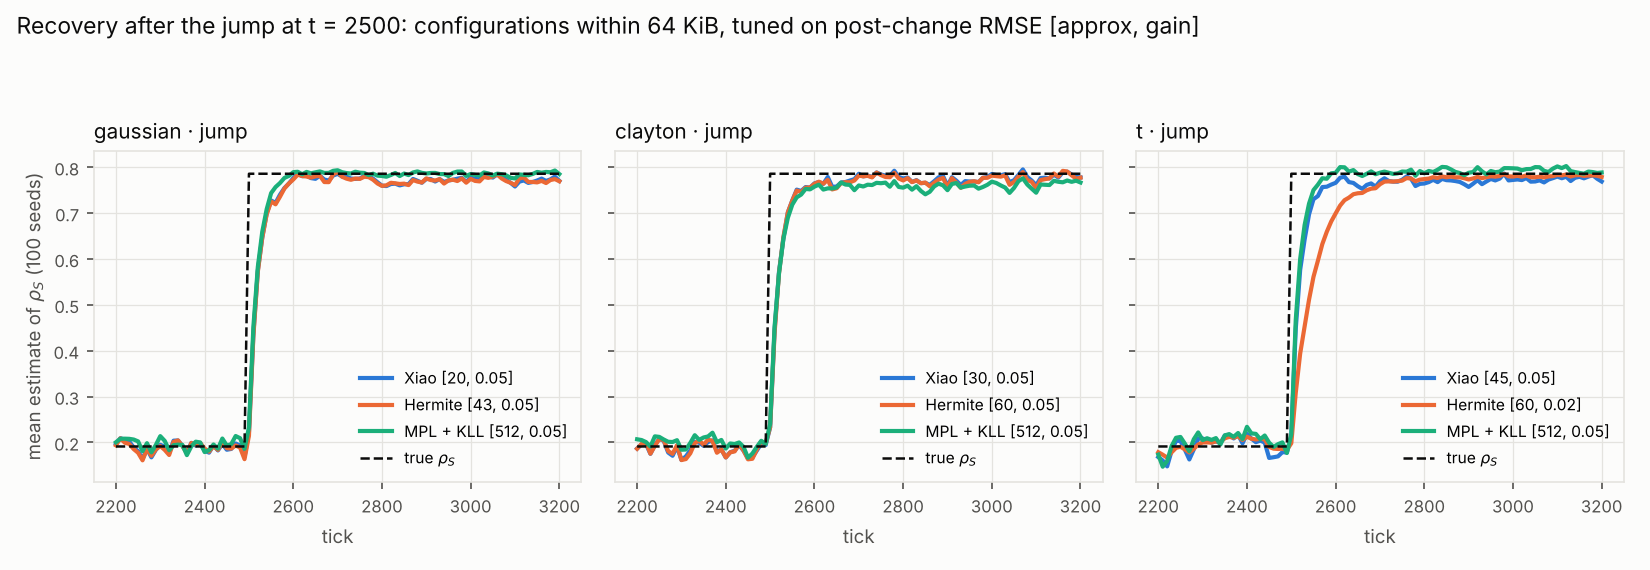
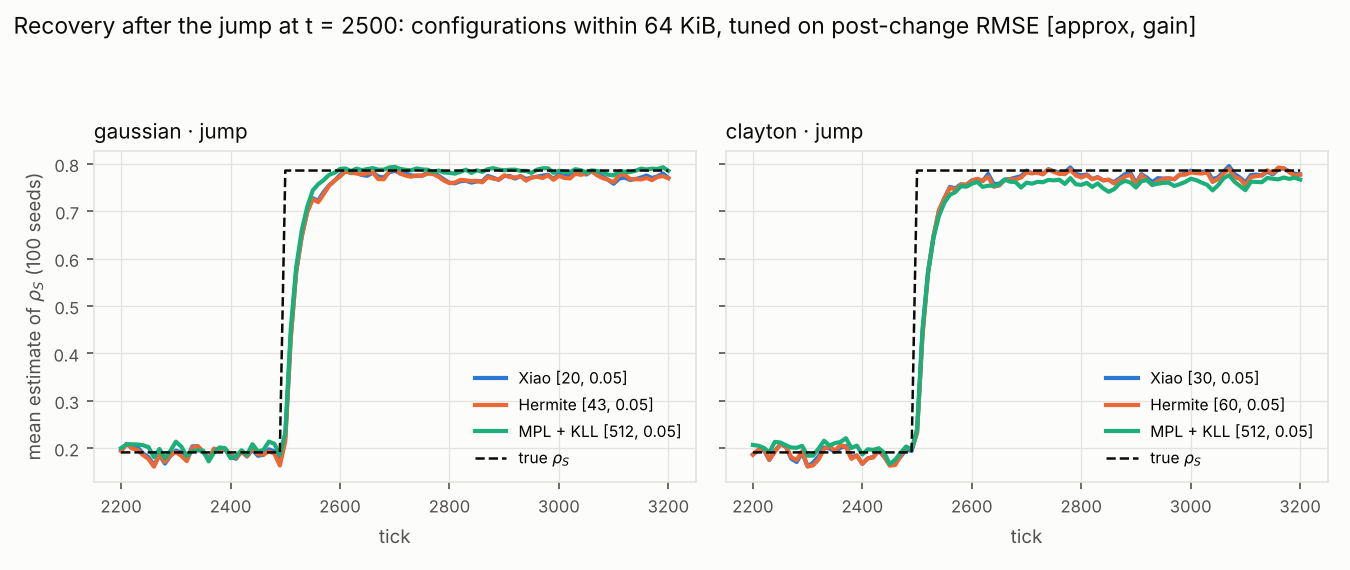
Budget figures: Gaussian + Clayton in the main text, all four families in an appendix figure
Claude-Session: https://claude.ai/code/session_011LH6MHfBJAMQDu7UQqGgRH

diff --git a/experiments/plot_budget.py b/experiments/plot_budget.py
@@ -38,9 +38,10 @@ def style(ax, title):
         s.set_color(GRID)
 
 
-def fig_memory():
-    fams, scs = ["gaussian", "clayton", "gumbel", "t"], ["constant", "drift", "jump"]
-    fig, axes = plt.subplots(len(fams), len(scs), figsize=(11, 11), sharex=True)
+def fig_memory(fams, out):
+    scs = ["constant", "drift", "jump"]
+    fig, axes = plt.subplots(len(fams), len(scs), figsize=(11, 2.75 * len(fams) + 1.0), sharex=True,
+                             squeeze=False)
     fig.patch.set_facecolor(SURF)
     for i, fam in enumerate(fams):
         for j, sc in enumerate(scs):
@@ -66,8 +67,8 @@ def fig_memory():
     fig.suptitle("RMSE against memory: each point one approximation setting at its validation-best gain\n"
                  "(100 test seeds, ±2 SE; dotted lines are the 16 / 64 / 256 KiB budgets)",
                  fontsize=11, color=INK, x=0.01, ha="left")
-    fig.tight_layout(rect=(0, 0, 1, 0.95))
-    fig.savefig(OUT + "ch6_budget_memory.png", dpi=150)
+    fig.tight_layout(rect=(0, 0, 1, 1 - 0.55 / fig.get_figheight()))
+    fig.savefig(OUT + out, dpi=150)
 
 
 def fig_runtime():
@@ -96,8 +97,8 @@ def fig_runtime():
 
 def fig_recovery():
     p = pd.read_csv(R + "budget_paths.csv")
-    fams = ["gaussian", "clayton", "t"]
-    fig, axes = plt.subplots(1, 3, figsize=(11, 3.8), sharey=True)
+    fams = ["gaussian", "clayton"]
+    fig, axes = plt.subplots(1, 2, figsize=(9, 3.8), sharey=True)
     fig.patch.set_facecolor(SURF)
     for ax, fam in zip(axes, fams):
         style(ax, f"{fam} · jump")
@@ -120,7 +121,8 @@ def fig_recovery():
     fig.savefig(OUT + "ch6_budget_recovery.png", dpi=150)
 
 
-fig_memory()
+fig_memory(["gaussian", "clayton"], "ch6_budget_memory.png")                       # main text
+fig_memory(["gaussian", "clayton", "gumbel", "t"], "ch6_budget_memory_all.png")    # appendix
 fig_runtime()
 fig_recovery()
-print("wrote", OUT + "ch6_budget_{memory,runtime,recovery}.png")
+print("wrote", OUT + "ch6_budget_{memory,memory_all,runtime,recovery}.png")
